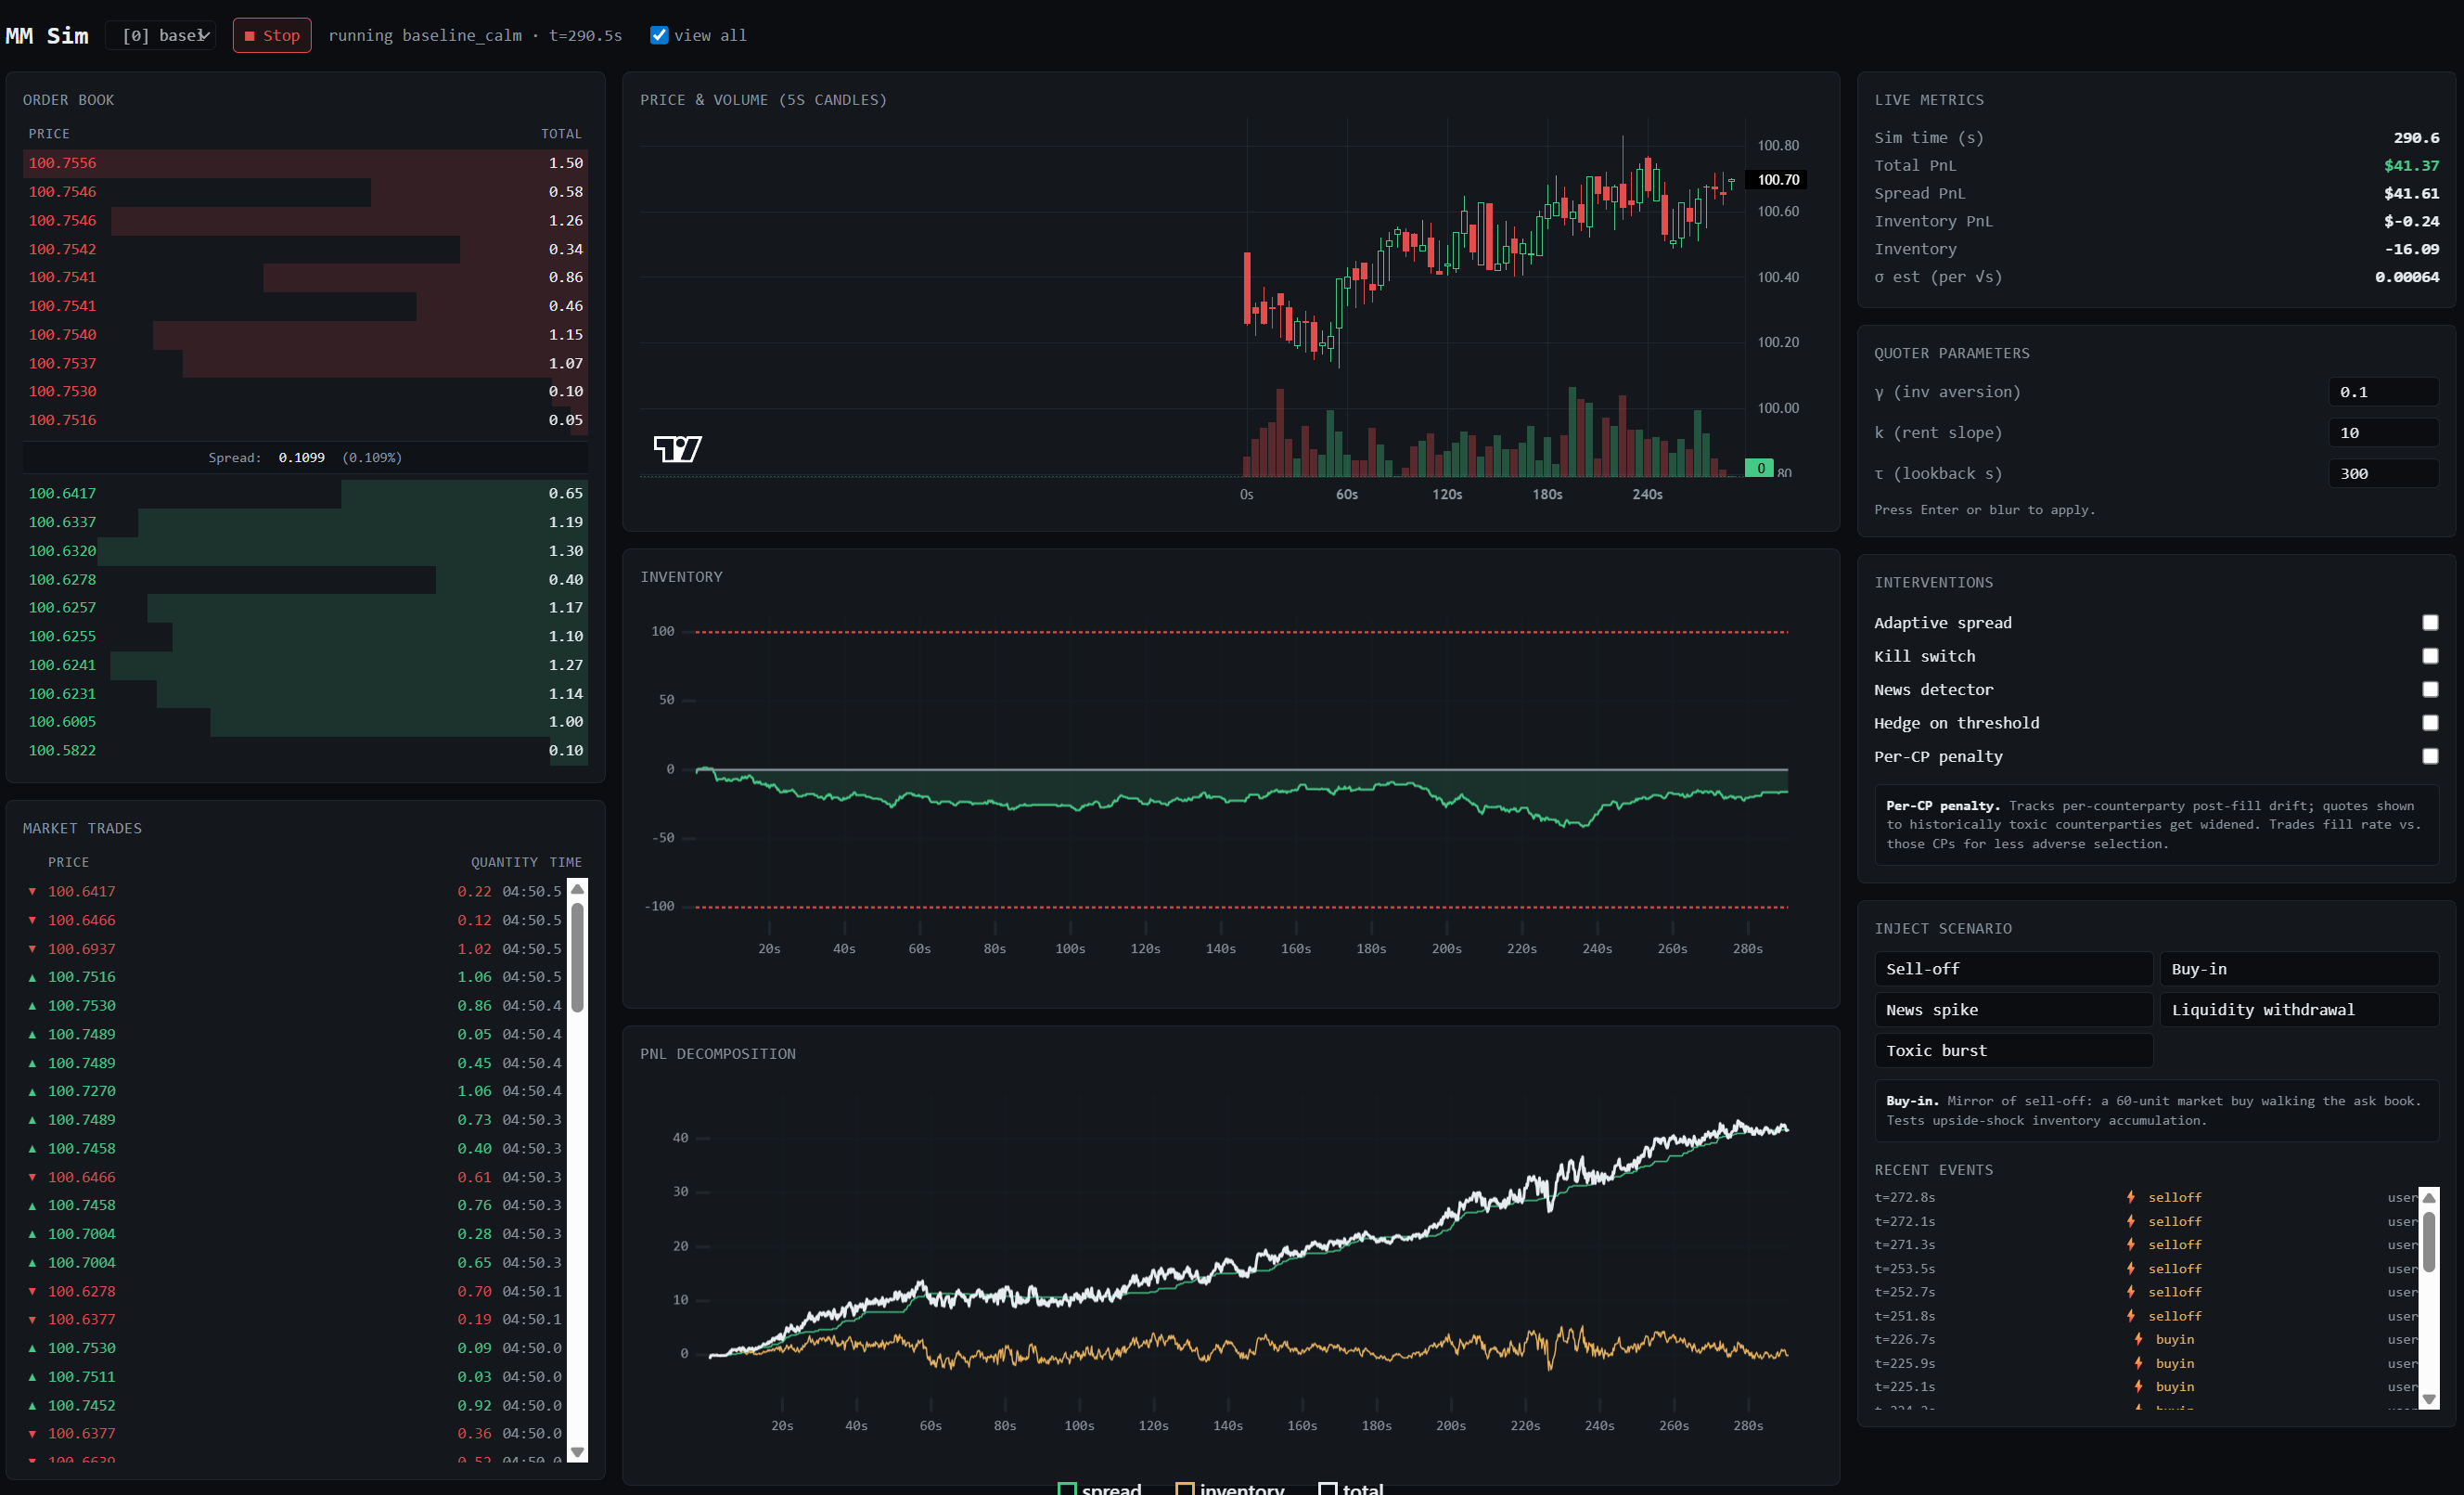
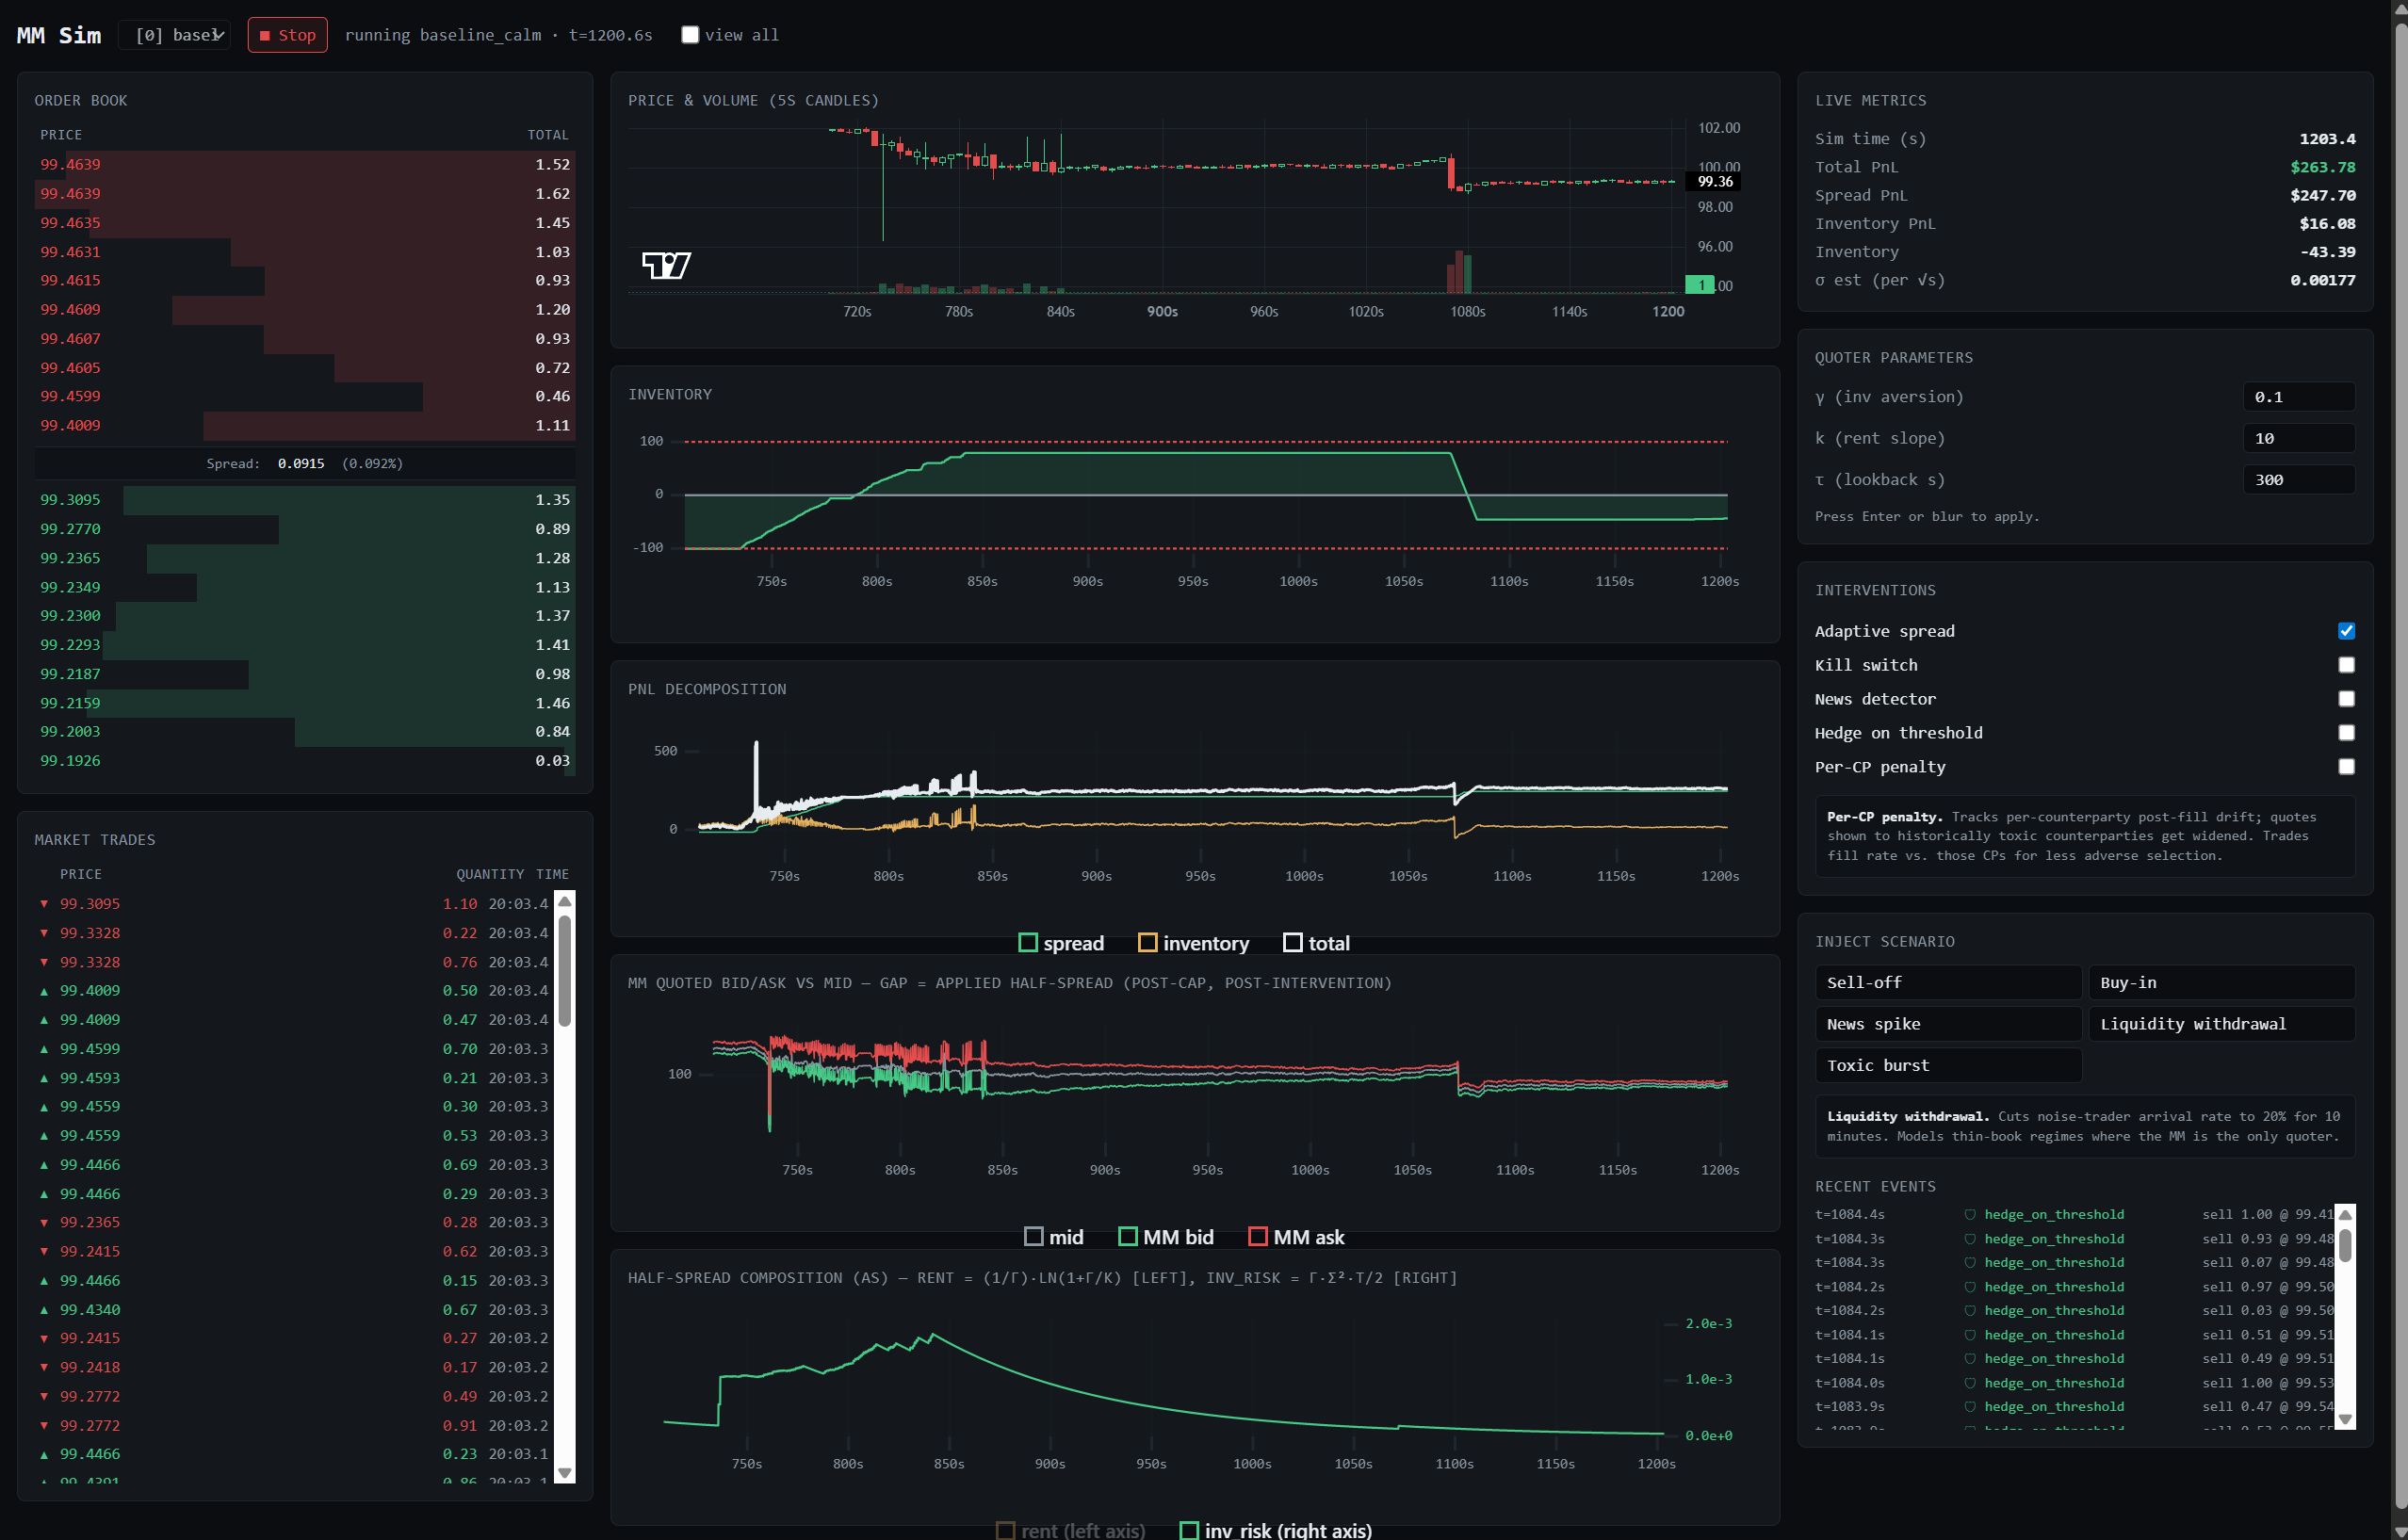
Surface AS-formula internals in the live UI
Adds two new chart panels that expose the Avellaneda-Stoikov quoter's
internal state per quote: MM Quoted Bid/Ask vs Mid (visualises the
applied half-spread directly), and Half-Spread Composition with rent
and inv_risk on independent y-axes so vol-driven inv_risk dynamics stay
visible even when the rent term dominates by orders of magnitude.
Plumbs reservation_price, half_spread, inv_risk_term and rent_term
through the Quote/QuoteRecord dataclasses, the WS quote_update payload,
and the parquet quotes writer.

diff --git a/frontend/src/components/SpreadCompositionChart.tsx b/frontend/src/components/SpreadCompositionChart.tsx
@@ -1,0 +1,90 @@
+import { memo, useEffect, useRef } from "react";
+import uPlot from "uplot";
+import "uplot/dist/uPlot.min.css";
+import { useChartStore, type ChartTick } from "../state/chartStore";
+
+// Two AS half-spread components on independent y-axes:
+//   left  axis = rent  = (1/γ)·ln(1+γ/k)   — usually large & near-constant
+//   right axis = inv_risk = γ·σ²·τ/2       — usually tiny but vol-driven
+// Independent scales let each component's variation be visible regardless
+// of magnitude, instead of being swamped on a shared axis.
+function build(ticks: ChartTick[]): uPlot.AlignedData {
+  const n = ticks.length;
+  const x = new Float64Array(n);
+  const rent = new Float64Array(n);
+  const inv = new Float64Array(n);
+  for (let i = 0; i < n; i++) {
+    x[i] = ticks[i].t;
+    rent[i] = ticks[i].rent_term;
+    inv[i] = ticks[i].inv_risk_term;
+  }
+  return [
+    x as unknown as number[],
+    rent as unknown as number[],
+    inv as unknown as number[],
+  ];
+}
+
+function SpreadCompositionChartImpl() {
+  const containerRef = useRef<HTMLDivElement>(null);
+  const chartRef = useRef<uPlot | null>(null);
+
+  useEffect(() => {
+    const el = containerRef.current;
+    if (!el) return;
+    const opts: uPlot.Options = {
+      width: el.clientWidth || 600,
+      height: el.clientHeight || 160,
+      pxAlign: 0,
+      cursor: { drag: { x: false, y: false } },
+      legend: { show: true, live: false },
+      scales: {
+        x: { time: false },
+        rent: { auto: true },
+        invrisk: { auto: true },
+      },
+      axes: [
+        { stroke: "#8a96a0", grid: { stroke: "#1f262d22" }, ticks: { stroke: "#1f262d" }, font: "10px monospace", values: (_u, ticks) => ticks.map((t) => `${t.toFixed(0)}s`) },
+        { scale: "rent", stroke: "#e6b15e", grid: { stroke: "#1f262d22" }, ticks: { stroke: "#1f262d" }, font: "10px monospace", size: 60 },
+        { scale: "invrisk", side: 1, stroke: "#46c986", grid: { show: false }, ticks: { stroke: "#1f262d" }, font: "10px monospace", size: 70, values: (_u, ticks) => ticks.map((t) => t.toExponential(1)) },
+      ],
+      series: [
+        {},
+        { label: "rent (left axis)", scale: "rent", stroke: "#e6b15e", width: 1.5, points: { show: false } },
+        { label: "inv_risk (right axis)", scale: "invrisk", stroke: "#46c986", width: 1.5, points: { show: false } },
+      ],
+    };
+    const u = new uPlot(opts, build([]), el);
+    chartRef.current = u;
+    const ro = new ResizeObserver(() => {
+      if (chartRef.current && el) {
+        chartRef.current.setSize({ width: el.clientWidth, height: el.clientHeight });
+      }
+    });
+    ro.observe(el);
+    return () => {
+      ro.disconnect();
+      u.destroy();
+      chartRef.current = null;
+    };
+  }, []);
+
+  useEffect(() => {
+    const apply = (ticks: ChartTick[]) => {
+      chartRef.current?.setData(build(ticks));
+    };
+    apply(useChartStore.getState().ticks);
+    return useChartStore.subscribe((s) => apply(s.ticks));
+  }, []);
+
+  return (
+    <div className="panel p-3 h-full flex flex-col">
+      <div className="label mb-1 flex-shrink-0">
+        Half-Spread Composition (AS) — rent = (1/γ)·ln(1+γ/k) [left], inv_risk = γ·σ²·τ/2 [right]
+      </div>
+      <div ref={containerRef} className="flex-1 min-h-0" />
+    </div>
+  );
+}
+
+export const SpreadCompositionChart = memo(SpreadCompositionChartImpl);

diff --git a/frontend/src/components/ReservationChart.tsx b/frontend/src/components/ReservationChart.tsx
@@ -1,0 +1,86 @@
+import { memo, useEffect, useRef } from "react";
+import uPlot from "uplot";
+import "uplot/dist/uPlot.min.css";
+import { useChartStore, type ChartTick } from "../state/chartStore";
+
+function build(ticks: ChartTick[]): uPlot.AlignedData {
+  const n = ticks.length;
+  const x = new Float64Array(n);
+  const mid = new Float64Array(n);
+  const bid = new Float64Array(n);
+  const ask = new Float64Array(n);
+  for (let i = 0; i < n; i++) {
+    x[i] = ticks[i].t;
+    mid[i] = ticks[i].mid;
+    const hs = ticks[i].half_spread;
+    const r = ticks[i].reservation_price;
+    bid[i] = Number.isFinite(hs) && Number.isFinite(r) ? r - hs : NaN;
+    ask[i] = Number.isFinite(hs) && Number.isFinite(r) ? r + hs : NaN;
+  }
+  return [
+    x as unknown as number[],
+    mid as unknown as number[],
+    bid as unknown as number[],
+    ask as unknown as number[],
+  ];
+}
+
+function QuotedSpreadChartImpl() {
+  const containerRef = useRef<HTMLDivElement>(null);
+  const chartRef = useRef<uPlot | null>(null);
+
+  useEffect(() => {
+    const el = containerRef.current;
+    if (!el) return;
+    const opts: uPlot.Options = {
+      width: el.clientWidth || 600,
+      height: el.clientHeight || 160,
+      pxAlign: 0,
+      cursor: { drag: { x: false, y: false } },
+      legend: { show: true, live: false },
+      scales: { x: { time: false } },
+      axes: [
+        { stroke: "#8a96a0", grid: { stroke: "#1f262d22" }, ticks: { stroke: "#1f262d" }, font: "10px monospace", values: (_u, ticks) => ticks.map((t) => `${t.toFixed(0)}s`) },
+        { stroke: "#8a96a0", grid: { stroke: "#1f262d22" }, ticks: { stroke: "#1f262d" }, font: "10px monospace", size: 60 },
+      ],
+      series: [
+        {},
+        { label: "mid", stroke: "#8a96a0", width: 1, points: { show: false } },
+        { label: "MM bid", stroke: "#46c986", width: 1, points: { show: false } },
+        { label: "MM ask", stroke: "#e34d4d", width: 1, points: { show: false } },
+      ],
+    };
+    const u = new uPlot(opts, build([]), el);
+    chartRef.current = u;
+    const ro = new ResizeObserver(() => {
+      if (chartRef.current && el) {
+        chartRef.current.setSize({ width: el.clientWidth, height: el.clientHeight });
+      }
+    });
+    ro.observe(el);
+    return () => {
+      ro.disconnect();
+      u.destroy();
+      chartRef.current = null;
+    };
+  }, []);
+
+  useEffect(() => {
+    const apply = (ticks: ChartTick[]) => {
+      chartRef.current?.setData(build(ticks));
+    };
+    apply(useChartStore.getState().ticks);
+    return useChartStore.subscribe((s) => apply(s.ticks));
+  }, []);
+
+  return (
+    <div className="panel p-3 h-full flex flex-col">
+      <div className="label mb-1 flex-shrink-0">
+        MM Quoted Bid/Ask vs Mid — gap = applied half-spread (post-cap, post-intervention)
+      </div>
+      <div ref={containerRef} className="flex-1 min-h-0" />
+    </div>
+  );
+}
+
+export const ReservationChart = memo(QuotedSpreadChartImpl);

diff --git a/frontend/src/App.tsx b/frontend/src/App.tsx
@@ -8,7 +8,9 @@ import { OrderBookLadder } from "./components/OrderBookLadder";
 import { ParameterPanel } from "./components/ParameterPanel";
 import { PnLChart } from "./components/PnLChart";
 import { PriceVolumeChart } from "./components/PriceVolumeChart";
+import { ReservationChart } from "./components/ReservationChart";
 import { ScenarioPanel } from "./components/ScenarioPanel";
+import { SpreadCompositionChart } from "./components/SpreadCompositionChart";
 import { TradesTape } from "./components/TradesTape";
 import { useChartStore } from "./state/chartStore";
 import { useSessionStore } from "./state/sessionStore";
@@ -124,6 +126,12 @@ export default function App() {
           </div>
           <div className="flex-1 min-h-0">
             <PnLChart />
+          </div>
+          <div className="flex-1 min-h-0">
+            <ReservationChart />
+          </div>
+          <div className="flex-1 min-h-0">
+            <SpreadCompositionChart />
           </div>
         </section>
         <section className="col-span-3 flex flex-col gap-3 min-h-0 overflow-y-auto">

diff --git a/frontend/src/api/wsPump.ts b/frontend/src/api/wsPump.ts
@@ -40,7 +40,8 @@ function flush(): void {
 
 function handle(msg: WsMessage): void {
   if (msg.kind === "quote_update") {
-    const p = msg.payload as Record<string, number | string[]>;
+    const p = msg.payload as Record<string, number | string[] | null>;
+    const num = (v: unknown) => (v == null ? NaN : Number(v));
     pendingTicks.push({
       t: Number(p.t),
       mid: Number(p.mid),
@@ -50,6 +51,10 @@ function handle(msg: WsMessage): void {
       spread_pnl: Number(p.spread_pnl),
       inventory_pnl: Number(p.inventory_pnl),
       sigma_est: Number(p.sigma_est),
+      reservation_price: num(p.reservation_price),
+      half_spread: num(p.half_spread),
+      inv_risk_term: num(p.inv_risk_term),
+      rent_term: num(p.rent_term),
       active_interventions: (p.active_interventions as string[]) ?? [],
     });
   } else if (msg.kind === "snapshot") {

diff --git a/frontend/src/state/chartStore.ts b/frontend/src/state/chartStore.ts
@@ -10,6 +10,10 @@ export interface ChartTick {
   spread_pnl: number;
   inventory_pnl: number;
   sigma_est: number;
+  reservation_price: number;
+  half_spread: number;
+  inv_risk_term: number;
+  rent_term: number;
   active_interventions: string[];
 }
 

diff --git a/backend/server/session.py b/backend/server/session.py
@@ -12,6 +12,7 @@ means real-time, `0` means as-fast-as-possible.
 from __future__ import annotations
 
 import asyncio
+import math
 import threading
 import time
 from dataclasses import dataclass, field
@@ -204,6 +205,8 @@ class Session:
             if engine.sim_t - last_quote_emit >= 0.1:
                 book_mid = engine.book.mid()
                 ref_mid = book_mid if book_mid is not None else engine.process.price
+                last_qr = engine.quote_records[-1] if engine.quote_records else None
+                _f = lambda x: None if x is None or math.isnan(x) else x  # noqa: E731
                 self._publish(
                     "quote_update",
                     {
@@ -215,6 +218,10 @@ class Session:
                         "spread_pnl": engine.pnl.realised_spread_pnl,
                         "inventory_pnl": engine.pnl.unrealised_pnl,
                         "sigma_est": engine.vol.sigma,
+                        "reservation_price": _f(last_qr.reservation_price if last_qr else None),
+                        "half_spread": _f(last_qr.half_spread if last_qr else None),
+                        "inv_risk_term": _f(last_qr.inv_risk_term if last_qr else None),
+                        "rent_term": _f(last_qr.rent_term if last_qr else None),
                         "active_interventions": [
                             n
                             for n in (

diff --git a/backend/mm_sim/engine.py b/backend/mm_sim/engine.py
@@ -80,6 +80,8 @@ class QuoteRecord:
     ask_price: float
     reservation_price: float
     half_spread: float
+    inv_risk_term: float
+    rent_term: float
     inventory: float
     sigma_est: float
     interventions_active: list[str]
@@ -529,6 +531,8 @@ class Engine:
                 ask_price=quote.ask_price,
                 reservation_price=quote.reservation_price,
                 half_spread=quote.half_spread,
+                inv_risk_term=quote.inv_risk_term,
+                rent_term=quote.rent_term,
                 inventory=self.pnl.inventory,
                 sigma_est=sigma_est,
                 interventions_active=active,
@@ -546,6 +550,8 @@ class Engine:
                 ask_price=float("nan"),
                 reservation_price=mid,
                 half_spread=float("nan"),
+                inv_risk_term=float("nan"),
+                rent_term=float("nan"),
                 inventory=self.pnl.inventory,
                 sigma_est=sigma_est,
                 interventions_active=why + ["pulled"],

diff --git a/backend/mm_sim/quoter/avellaneda_stoikov.py b/backend/mm_sim/quoter/avellaneda_stoikov.py
@@ -20,6 +20,8 @@ class Quote:
     ask_price: float
     reservation_price: float
     half_spread: float
+    inv_risk_term: float
+    rent_term: float
 
 
 class AvellanedaStoikov:
@@ -64,4 +66,6 @@ class AvellanedaStoikov:
             ask_price=reservation + half_spread,
             reservation_price=reservation,
             half_spread=half_spread,
+            inv_risk_term=inv_risk_term,
+            rent_term=rent_term,
         )

diff --git a/backend/mm_sim/quoter/interventions.py b/backend/mm_sim/quoter/interventions.py
@@ -52,6 +52,8 @@ def adaptive_spread(quote: Quote, ctx: InterventionContext, sigma_now: float) ->
         ask_price=quote.reservation_price + new_half,
         reservation_price=quote.reservation_price,
         half_spread=new_half,
+        inv_risk_term=quote.inv_risk_term,
+        rent_term=quote.rent_term,
     )
 
 
@@ -104,6 +106,8 @@ def per_counterparty_penalty(
         ask_price=quote.reservation_price + new_half,
         reservation_price=quote.reservation_price,
         half_spread=new_half,
+        inv_risk_term=quote.inv_risk_term,
+        rent_term=quote.rent_term,
     )
 
 

diff --git a/backend/mm_sim/results.py b/backend/mm_sim/results.py
@@ -68,6 +68,8 @@ def write_results(
             "ask_price": [_safe(q.ask_price) for q in result.quotes],
             "reservation_price": [_safe(q.reservation_price) for q in result.quotes],
             "half_spread": [_safe(q.half_spread) for q in result.quotes],
+            "inv_risk_term": [_safe(q.inv_risk_term) for q in result.quotes],
+            "rent_term": [_safe(q.rent_term) for q in result.quotes],
             "inventory": [q.inventory for q in result.quotes],
             "sigma_est": [q.sigma_est for q in result.quotes],
             "interventions_active": [",".join(q.interventions_active) for q in result.quotes],

diff --git a/README.md b/README.md
@@ -19,8 +19,14 @@ The screenshot above is the running app at `http://localhost:5173/` against
   row) and a market-trades tape (▲ buy aggressor, ▼ sell aggressor, time
   in MM:SS.ms of sim time).
 - **Center** — Price & 5-second OHLC volume candles
-  (TradingView lightweight-charts), inventory area, and PnL decomposition
-  lines (uPlot canvas). The `view all` toggle in the
+  (TradingView lightweight-charts), inventory area, PnL decomposition
+  lines, and two AS-internals panels that expose the quoter's
+  formula directly: **MM Quoted Bid/Ask vs Mid** (the gap = the applied
+  half-spread, post-cap and post-intervention) and **Half-Spread
+  Composition** (the two AS terms — `rent = (1/γ)·ln(1+γ/k)` on a
+  left axis, `inv_risk = γ·σ²·τ/2` on an independent right axis so
+  vol-driven changes stay visible even when rent dominates by orders
+  of magnitude). All uPlot canvas. The `view all` toggle in the
   header keeps up to 60 minutes of history instead of the default 6.
 - **Right** — live numeric metrics, the three quoter knobs
   (γ, k, τ — Hit 'enter' or tab/click out to apply), the five interventions